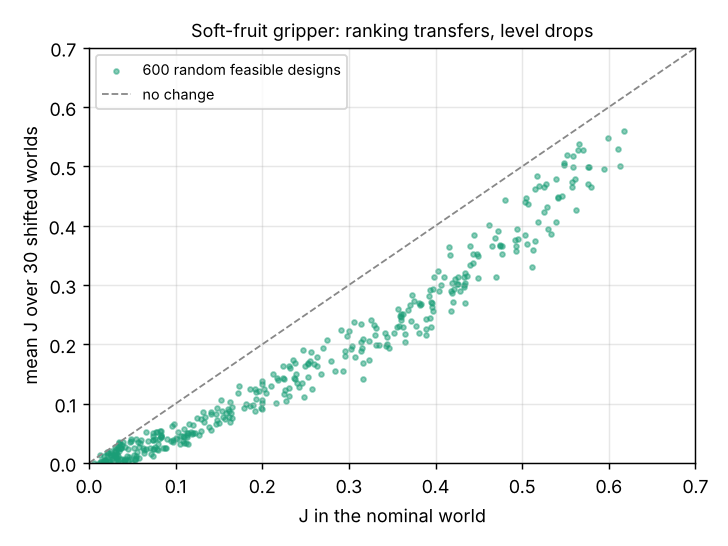
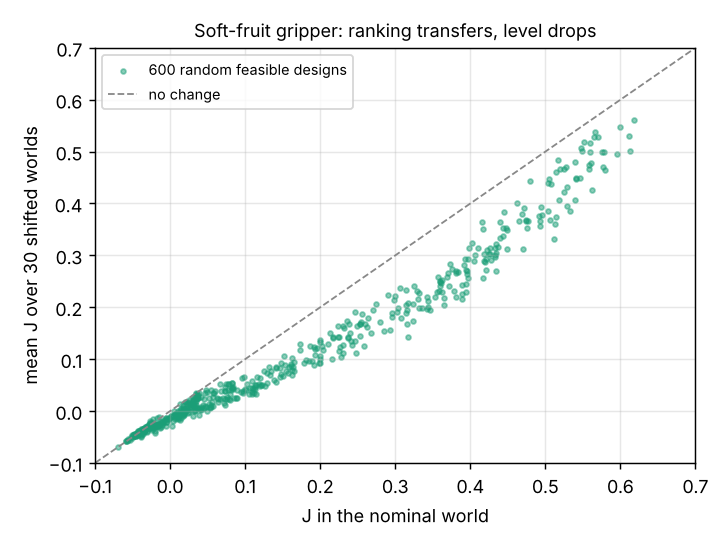
research/codesign-transfer: lead with the top-10% rank figures, pin scores in tests, cite reality-gap and robust-design prior work, fix nominal-world label
Prompt-Version: quality/0
Claude-Session: https://claude.ai/code/session_01XpHqyd52t9NTjYsb1gPYrZ

diff --git a/research/codesign-transfer/experiments/run.py b/research/codesign-transfer/experiments/run.py
@@ -62,7 +62,7 @@ if __name__ == "__main__":
         s = test_scores(x)
         rows.append((name, [round(float(v), 3) for v in x], T.score(x, NOMINAL, builds=1), s.mean(), np.percentile(s, 5), s.min()))
 
-    lines = [f"{N_DESIGNS} random feasible designs, nominal world (codesign-agri's 600 fruit, no tolerance) vs {N_TEST} held-out shifted worlds, 3 printed copies per design per world.", "",
+    lines = [f"{N_DESIGNS} random feasible designs, nominal world (one 600-fruit draw at codesign-agri's nominal parameters, seed 1000, no tolerance) vs {N_TEST} held-out shifted worlds, 3 printed copies per design per world.", "",
              f"Spearman rank correlation, nominal J vs mean J over worlds: {rho_mean:.3f}",
              f"Per-world Spearman: median {np.median(per_world):.3f}, min {min(per_world):.3f}, max {max(per_world):.3f}",
              f"Share of the nominal top 10% that is still in a world's top 10%: median {np.median(top_in_top):.2f}, min {min(top_in_top):.2f}",

diff --git a/research/codesign-transfer/tests/test_transfer.py b/research/codesign-transfer/tests/test_transfer.py
@@ -41,5 +41,18 @@ class TransferTests(unittest.TestCase):
         self.assertAlmostEqual(T.phys(np.ones(5))[2], T.UB[2])
 
 
+class PinnedNumbers(unittest.TestCase):
+    # Pins results.txt on the nominal optimum (quality audit 2026-11-12): five of six seeded bugs
+    # in transfer.py survived the earlier tests because none pinned a score.
+    XN = [24.984, 24.902, 0.18, 8.0, 3]
+
+    def test_nominal_optimum_in_nominal_world(self):
+        self.assertAlmostEqual(T.score(self.XN, T.draw_world(0, width=0.0), builds=1), 0.6526, places=3)
+
+    def test_nominal_optimum_over_held_out_worlds(self):
+        s = [T.score(self.XN, T.draw_world(k)) for k in range(1000, 1030)]
+        self.assertAlmostEqual(float(np.mean(s)), 0.567, places=3)
+
+
 if __name__ == "__main__":
     unittest.main()

diff --git a/research/codesign-transfer/experiments/figure.py b/research/codesign-transfer/experiments/figure.py
@@ -8,7 +8,7 @@ HERE = os.path.dirname(os.path.abspath(__file__))
 R = json.load(open(os.path.join(HERE, "results.json")))
 fig, ax = plt.subplots(figsize=(5.6, 4.2))
 ax.scatter(R["nom"], R["mean_shifted"], s=7, alpha=0.5, color="#1b9e77", label="600 random feasible designs")
-lim = [0, 0.7]
+lim = [-0.1, 0.7]
 ax.plot(lim, lim, color="#888888", lw=1, ls="--", label="no change")
 ax.set_xlim(lim); ax.set_ylim(lim)
 ax.set_xlabel("J in the nominal world")

diff --git a/research/codesign-transfer/README.md b/research/codesign-transfer/README.md
@@ -7,7 +7,7 @@ Seventh milestone of the agentic co-design track (`research/PROJECTS.md`, track 
 ![nominal J against mean J in shifted worlds](experiments/transfer.png)
 
 **Headline (simulated, stylised; all numbers from `experiments/results.txt`).**
-- **The ranking of designs transfers; the level does not.** 600 random feasible designs: Spearman correlation 0.993 between J in the nominal world and mean J over 30 held-out shifted worlds (per world, median 0.967, minimum 0.924). Of the nominal top 10%, a median 85% (minimum 65%) are still in a shifted world's top 10%. So in this model a design that wins in the narrow world is a good candidate in the wide ones, which is the reassuring reading of the track's question.
+- **The ranking of designs transfers; the level does not.** Of the nominal top 10% of 600 random feasible designs, a median 85% (minimum 65%) are still in a shifted world's top 10%, and within that top 10% the Spearman correlation between nominal J and mean shifted J is 0.838. Over all 600 designs it is 0.993 (per world, median 0.967, minimum 0.924), but that figure is inflated: 282 of the 600 pick almost nothing (nominal J below 0.05), so it mostly separates working designs from broken ones (quality audit, `portfolio/quality/audits/2026-11-12-codesign-transfer.json`). So in this model a design that wins in the narrow world is a good candidate in the wide ones, which is the reassuring reading of the track's question.
 - **But everything gets worse, and the winner loses the most.** 20% of designs lose more than 0.10 of J from nominal to the shifted mean. The nominal-world CMA-ES optimum falls from 0.653 to 0.567 (-13%). The best random design falls from 0.618 to 0.560.
 - **Widening the spread lowers the level smoothly and the ranking barely.** Spearman against nominal stays at 0.998, 0.998, 0.997, 0.996, 0.993 for spread widths 0, 0.25, 0.5, 0.75, 1.0, while the nominal-best design's mean J falls 0.654, 0.646, 0.634, 0.620, 0.598.
 - **A robust objective is cheap here, and small.** Optimising the mean J over 10 training worlds with CMA-ES gives pads 25 x 30 mm, 0.151 MPa, 7.98 N, three fingers. Scored on 30 *held-out* worlds: mean J 0.582 (nominal optimum 0.567), 5th percentile 0.502 (0.465), worst world 0.459 (0.425), at the price of 0.623 in the nominal world (0.653). That is 0.015 more on average and 0.034 more in the worst world, from one CMA-ES seed per objective, so read it as suggestive, not established.
@@ -27,23 +27,24 @@ This is **sim-to-sim**: the same equations score the nominal and shifted worlds,
 ```bash
 cd research/codesign-transfer
 PY=$(python3 ../../platform/ci/pyenv.py pytest numpy scipy cma matplotlib)
-PYTHONPATH=src "$PY" -m unittest discover -s tests      # 6 tests
+PYTHONPATH=src "$PY" -m unittest discover -s tests      # 8 tests
 "$PY" experiments/run.py                                  # ~50 s -> results.txt, results.json
 "$PY" experiments/figure.py                               # -> transfer.png
 ```
 
 ## Limitations
 - Sim-to-sim, in a model written for this study; see above. The rank correlation says the model is smooth in its parameters more than it says real grippers transfer.
-- The "robust" gain is small and from single CMA-ES runs; a different seed could move it by as much as the gain.
+- The "robust" gain is small: +0.015 of mean J for the reported seed pair, winning 20 of 30 test worlds (paired t 3.5). The quality audit reran 6 CMA-ES seed pairs and found the gain between +0.010 and +0.023, positive every time; that a robust optimum beats the nominal one on the average over worlds is the expected result from robust design optimisation, not a new one.
+- Every shift and tolerance range in `transfer.py` is a round number chosen for the study, not taken from measured fruit or printer data; only one overall spread setting is swept.
 - At width 0 the sweep scores a different random fruit population from the nominal one, which is why Spearman there is 0.998 and not 1.
 - Mean over worlds weights every world equally; a grower who loses a whole day to wet fruit would weigh the tail more.
 - No agent loop here: this project scores designs, it does not compare proposers. `codesign-agri` and `codesign-diagnose` do that.
 
 ## Lab tags
-None fits: nothing here builds on a lab's published work. Prior work: Tobin et al. (2017), domain randomisation, IROS, is the idea of widening a simulator's parameters; its method (training a policy on randomised simulation) is not reproduced.
+None fits: nothing here builds on a lab's published work. Prior work: Tobin et al. (2017), domain randomisation, IROS, is the idea of widening a simulator's parameters; its method (training a policy on randomised simulation) is not reproduced. The question also belongs to the reality-gap literature (Jakobi, Husbands and Harvey 1995, ECAL, minimal simulations; Koos, Mouret and Doncieux 2013, IEEE TEC, the transferability approach) and to robust design optimisation (Beyer and Sendhoff 2007, CMAME, survey; Taguchi's parameter design), none of which this project improves on.
 
 ## Next steps
-Make a dimension non-monotonic (an unseen fruit class, a slippery coating) and see whether the ranking breaks; run the same test on `codesign-sar`'s rover and `codesign-gripper`'s MuJoCo gripper, where physics is richer; average the robust optimum over several CMA-ES seeds.
+Make a dimension non-monotonic (an unseen fruit class, a slippery coating) and see whether the ranking breaks; run the same test on `codesign-sar`'s rover and `codesign-gripper`'s MuJoCo gripper, where physics is richer.
 
 ## Owner steps
 Print the nominal and robust optima in a soft TPU and compare their bruise and drop rates on real berries across a day's conditions.

diff --git a/research/README.md b/research/README.md
@@ -828,7 +828,7 @@ Moved here from the former `oss-research-monorepo` repository with its history. 
 - [`research/codesign-aero-robust`](codesign-aero-robust) — does the best quadrotor airframe stay best under widened motor-strength, mass and lag randomisation? Mostly: top five unchanged (Spearman 0.75), but retuning gains helps the median airframe 0.91° (stylised).
 - [`research/codesign-aero-joint`](codesign-aero-joint) — should airframe and gains be searched jointly under an uncertain plant? Yes in this stylised model: joint CMA-ES at 960 evaluations (5.75° median held-out, 8 seeds) beats random search and a 4800-evaluation grid-then-tune best cell (6.00°).
 - [`research/codesign-aero-seeds`](codesign-aero-seeds) — is the airframe ranking from one tuning run reproducible? With wide-tuned gains yes (Spearman 0.99 over six replicates); with nominal-tuned gains it is noisier (0.84) and the earlier 0.17° regret was within noise (stylised).
-- [`research/codesign-transfer`](codesign-transfer) — does the ranking of soft-fruit gripper designs survive a shift in friction, fruit, placement error and print tolerance? Yes in this model (Spearman 0.993 over 600 designs), but the nominal optimum loses 13% of its J and a robust optimum gains only about 0.015 on average; sim-to-sim, assumed ranges.
+- [`research/codesign-transfer`](codesign-transfer) — does the ranking of soft-fruit gripper designs survive a shift in friction, fruit, placement error and print tolerance? Mostly, in this model (85% of the nominal top 10% stay top 10%; Spearman 0.838 within that top 10%, 0.993 over all 600 designs including broken ones), but the nominal optimum loses 13% of its J and a robust optimum gains only about 0.015 on average; sim-to-sim, assumed ranges.
 - [`research/society-plaza`](society-plaza) — do robots that keep to one side make people walk on it, or jam the corridor? In a social-force corridor, robots that adapt change nothing, but robots that hold the left cut people's speed from 0.91 to 0.39 of desired by 30% of the crowd and halve lane separation, while people move to their side only gradually (no sharp tipping, unlike the 1D model). Stylised.
 - [`research/society-trust`](society-trust) — can a robot fleet's reputation survive one bad incident? In a model where trust spreads by experience and gossip, a dent always recovers because people keep meeting robots; reputation is lost only through avoidance (at a 0.30 avoid-below threshold, 20/20, 18/20 and 0/20 crowds recover under neutral, 2× and 4× negativity in gossip), and robots that explain failures recovered every time. Stylised.
 - [`research/society-commons`](society-commons) — what does it cost robots to let people go first at a shared lift or narrow pavement? At load 0.9, deference cuts people's wait 6.5× (4.60 to 0.71) and raises robots' by 2.6 units; total waiting cost is conserved, so it pays only if a person's wait costs more than a robot's, and a lone defector waits far less (2.08 vs 7.65). Queueing model within 2.7% of closed forms.
